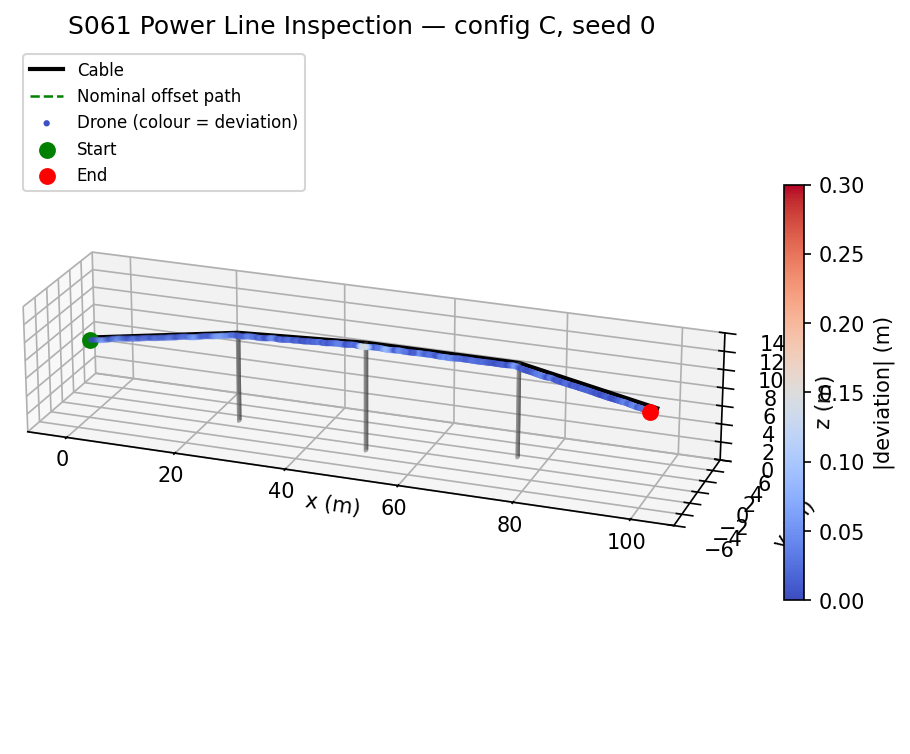
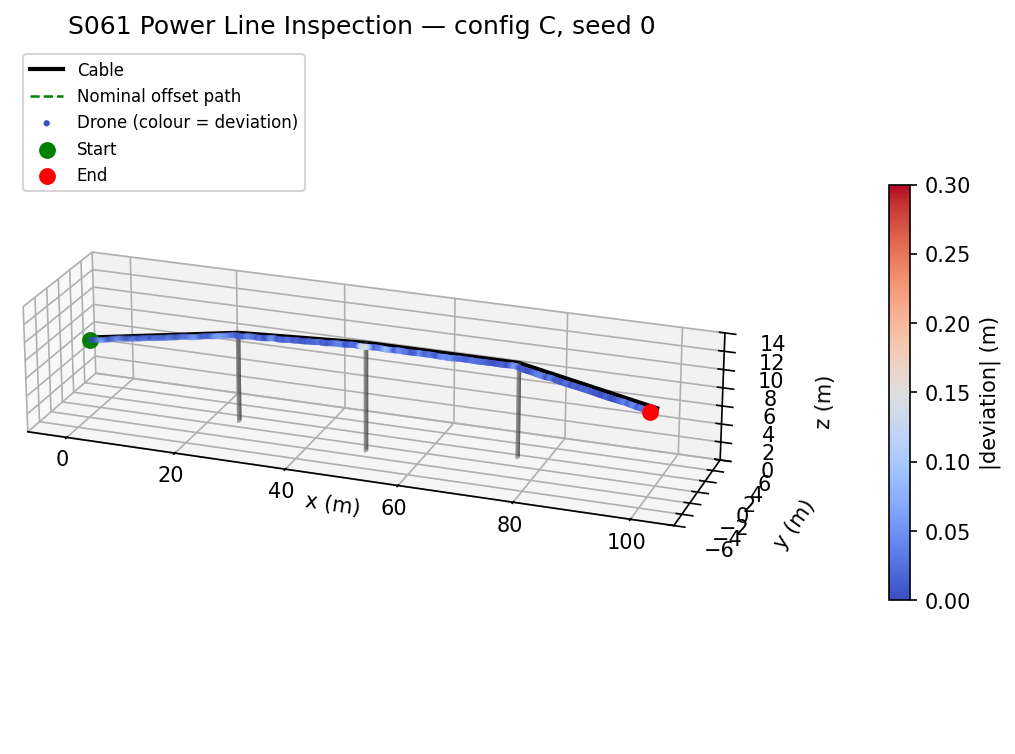
Fix S061 Power Line Inspection: address review follow-ups

Changed region(s): [[0.0, 0.2135, 0.9846, 0.8236], [0.0, 0.0, 0.7077, 0.244]]

diff --git a/src/04_industrial_agriculture/s061_power_line.py b/src/04_industrial_agriculture/s061_power_line.py
@@ -1,7 +1,7 @@
 """
 S061 Power Line Inspection
 ==========================
-A drone follows a 103 m high-voltage cable (5-vertex 3D polyline, 3 support poles)
+A drone follows a 100.55 m high-voltage cable (5-vertex 3D polyline, 3 support poles)
 at a lateral standoff of 1.5 m and 0.5 m above it, at 1.0 m/s. A Frenet-frame
 controller (along-track speed loop, cross-track PID, vertical PD) tracks the
 nominal offset path from noisy GPS (sigma = 0.1 m); a repulsive potential field
@@ -10,7 +10,7 @@ pushes the drone away from each pole.
 Four controller configurations are compared over 20 GPS-noise seeds (common
 random numbers):
   A  card law      : finite-difference error derivatives on GPS, no drag feed-forward
-  B  vel-deriv     : error derivatives from the velocity estimate, no feed-forward
+  B  vel-deriv     : error derivatives from the true (noise-free) velocity, no feed-forward
   C  vel-deriv + FF: B plus drag / slope feed-forward (proposed)
   D  C without the pole potential field (ablation)
 
@@ -316,7 +316,7 @@ def plot_trajectory_3d(log, out_dir):
                     vmin=0, vmax=DEV_TOL, s=4, label='Drone (colour = deviation)')
     ax.scatter(*P[0], color='green', s=50, label='Start')
     ax.scatter(*P[-1], color='red', s=50, label='End')
-    fig.colorbar(sc, ax=ax, shrink=0.6, label='|deviation| (m)')
+    fig.colorbar(sc, ax=ax, shrink=0.6, pad=0.12, label='|deviation| (m)')
     ax.set_xlabel('x (m)')
     ax.set_ylabel('y (m)')
     ax.set_zlabel('z (m)')
@@ -524,6 +524,11 @@ if __name__ == '__main__':
     print(f'  Per-seed RMS wins: B < A in {int(np.sum(rmsB < rmsA))}/{N_SEEDS}; '
           f'C < B in {int(np.sum(rmsC < rmsB))}/{N_SEEDS}; '
           f'C < D in {int(np.sum(rmsC < rmsD))}/{N_SEEDS}')
+    for k in ('C', 'D'):
+        lg = logs[k]
+        near = [float(np.max(np.abs(lg['eN'][np.abs(lg['s'] - sp) <= 3.0]))) for sp in S0_SEG[1:4]]
+        print(f"  Seed {ANIM_SEED} config {k}: max |e_N| within 3 m of poles 1/2/3: "
+              + ' / '.join(f'{v:.3f}' for v in near) + ' m')
     mC = metrics(logs[MAIN])
     print(f'  Seed {ANIM_SEED} config {MAIN}: time {mC["time"]:.1f} s, coverage '
           f'{mC["coverage"]:.1f} %, RMS {mC["rms"]:.3f} m, max|e_N| {mC["max_eN"]:.3f} m, '

diff --git a/outputs/04_industrial_agriculture/s061_power_line/README.md b/outputs/04_industrial_agriculture/s061_power_line/README.md
@@ -17,9 +17,9 @@
 | Config | Error derivatives | Drag feed-forward | Pole potential field |
 |---|---|---|---|
 | **A** card law | finite difference of the GPS-measured errors (card code) | no | yes |
-| **B** | from the velocity estimate | no | yes |
-| **C** proposed | from the velocity estimate | $c_{drag} v_{insp} \hat T$ | yes |
-| **D** ablation | from the velocity estimate | $c_{drag} v_{insp} \hat T$ | **no** |
+| **B** | from the true velocity (noise-free) | no | yes |
+| **C** proposed | from the true velocity (noise-free) | $c_{drag} v_{insp} \hat T$ | yes |
+| **D** ablation | from the true velocity (noise-free) | $c_{drag} v_{insp} \hat T$ | **no** |
 
 A GPS-noise sweep (σ = 0.1, 0.25, 0.5, 1.0 m; 10 seeds each) tests A, C and D for robustness.
 
@@ -39,7 +39,7 @@ $$a_T = K_p^{(T)}(v_{insp} - \dot s) - K_d^{(T)}\ddot s,\qquad a_N = -K_p^{(N)}e
 
 $$\mathbf a_{cmd} = a_T\hat T + a_N\hat N + a_B\hat z\;[+\,c_{drag}v_{insp}\hat T]\;[+\,\mathbf a_{rep}]$$
 
-Config A computes $\dot e_N, \dot e_B$ by finite differences of the GPS-measured errors, as in the card's code. B–D use $\dot e_N = \mathbf v\cdot\hat N$ and $\dot e_B = v_z - \dot s\,T_z$.
+Config A computes $\dot e_N, \dot e_B$ by finite differences of the GPS-measured errors, as in the card's code. B–D use $\dot e_N = \mathbf v\cdot\hat N$ and $\dot e_B = v_z - \dot s\,T_z$, where $\mathbf v$ is the drone's **true** velocity: the simulation assumes velocity is measured without noise (for example by an IMU / GPS-Doppler fusion). The along-track speed $\dot s$ also uses the true velocity in every configuration, as in the card. The B/C/D advantage over A is therefore an upper bound; a noisy velocity estimate would narrow it.
 
 ### Pole repulsion (card)
 
@@ -141,7 +141,7 @@ Config C, seed 0: the cable (black), the three poles (grey cylinders) and the dr
 
 ### Tracking Errors and Speed
 
-Cross-track and vertical errors (true position) for the card law A and for C, seed 0, with the ±0.3 m band in yellow and the poles as grey bands. The bottom panel shows A and B settling at 0.706 m/s while C holds 1.0 m/s. The cross-track bumps at s ≈ 25, 50 and 75 m are the potential-field push at the poles. The largest, at pole 2 (+0.14 m), is where the cable turns most sharply in the horizontal plane:
+Cross-track and vertical errors (true position) for the card law A and for C, seed 0, with the ±0.3 m band in yellow and the poles as grey bands. The bottom panel shows A and B settling at 0.706 m/s while C holds 1.0 m/s. The cross-track bumps at s ≈ 25, 50 and 75 m come mainly from the cable's corners at the poles: the reference switches to the next segment's frame there, and the drone needs time to follow. They appear with and without the potential field. Max |e_N| within 3 m of poles 1/2/3 in seed 0 is 0.061 / 0.140 / 0.032 m with the field (C) and 0.061 / 0.095 / 0.073 m without it (D). The field adds to the bump only at pole 2, where the cable turns most sharply in the horizontal plane (0.140 against 0.095 m):
 
 ![Error Time Series](./error_timeseries.png)
 
@@ -171,9 +171,9 @@ Top view of config C, seed 0. The red dot is the drone, the orange dots are the 
 
 | Card | Implementation | Reason |
 |------|----------------|--------|
-| GPS noise added to $\dot{\mathbf p}$ (and to `pos` every step in the card's code) | GPS noise only corrupts the measured position $\tilde{\mathbf p}$ that the controller uses; the true position integrates $\mathbf v$ | Adding 0.1 m to the true position at every 0.05 s step is a 2 m/s random velocity, not a sensor error. Card corrected. |
+| GPS noise added to $\dot{\mathbf p}$ (and to `pos` every step in the card's code) | GPS noise only corrupts the measured position $\tilde{\mathbf p}$ that the controller uses; the true position integrates $\mathbf v$ | Adding 0.1 m to the true position at every 0.05 s step is a 2 m/s random velocity, not a sensor error. Card math and code corrected. |
 | One controller | Four configurations A–D with 20 common-random-number seeds, plus a GPS sweep | The card's law misses the speed target (next row). The comparison isolates the effect of the derivative, the feed-forward and the potential field. |
-| $a_T = K_p(v_{insp} - \dot s) - K_d\ddot s$ (card code: $-K_d\dot s$) | Card math ($-K_d\ddot s$) in all configs; C and D add $c_{drag}v_{insp}\hat T$ | The card code's $-K_d\dot s$ would settle at 1.2/2.1 = 0.57 m/s. The math version settles at 0.706 m/s because of drag; the feed-forward removes this steady-state error. A note is added to the card. |
+| $a_T = K_p(v_{insp} - \dot s) - K_d\ddot s$ (card code: $-K_d\dot s$) | Card math ($-K_d\ddot s$) in all configs; C and D add $c_{drag}v_{insp}\hat T$ | The card code's $-K_d\dot s$ would settle at 1.2/2.1 = 0.57 m/s. The math version settles at 0.706 m/s because of drag; the feed-forward removes this steady-state error. A note is added to the card, and the card code now uses $-K_d\ddot s$ plus the feed-forward. |
 | Cable length ≈ 103 m; task time 103 s | 100.55 m; 141.6 s (A) / 100.2 s (C) | Computed from the card's vertices. Card corrected. |
 | Coverage: "within lateral distance $d_{lat} + \epsilon$ of the segment midpoint" ($\epsilon$ not given; card code uses distance to the nominal point with $\epsilon = 0.5$) | Euclidean distance from the true position to the segment midpoint ≤ 2.0 m ($\epsilon = 0.5$ m) for ≥ 0.5 s | The card code's test is nearly always true and only counts time per segment. The midpoint distance makes coverage depend on actually passing close to each segment. |
 | No speed limit | 5 m/s speed limit, enforced with an assert | X4 sanity check; it is only reached with GPS noise of σ = 1.0 m. |

diff --git a/scenarios/04_industrial_agriculture/S061_power_line.md b/scenarios/04_industrial_agriculture/S061_power_line.md
@@ -281,38 +281,43 @@ def simulate(vertices, frames, rng):
     eB_log     = [0.0]
     speed_log  = [V_INSP]
 
+    prev_sdot = V_INSP
     while True:
+        # GPS is a measurement error: the controller sees meas, the drone is at pos
+        meas = pos + rng.normal(0.0, GPS_SIGMA, 3)
         s, p_ref, seg_idx, T_hat, N_hat = project_to_cable(
-            pos, frames, vertices)
+            meas, frames, vertices)
 
         # Nominal target
         p_nom = p_ref + D_LAT * N_hat + DELTA_Z * np.array([0, 0, 1])
 
-        # Frenet errors
-        diff   = pos - p_nom
+        # Frenet errors (measured)
+        diff   = meas - p_nom
         e_N    = np.dot(diff, N_hat)
         e_B    = diff[2]
         s_dot  = np.dot(vel, T_hat)
 
-        # PID accelerations
-        a_T = KP_T * (V_INSP - s_dot) - KD_T * np.dot(vel, T_hat)
+        # PID accelerations: speed loop with K_d on s-double-dot (math above);
+        # C_DRAG * V_INSP feed-forward removes the drag-induced speed deficit
+        s_ddot = (s_dot - prev_sdot) / DT
+        a_T = KP_T * (V_INSP - s_dot) - KD_T * s_ddot + C_DRAG * V_INSP
         i_N += e_N * DT
         d_eN = (e_N - prev_eN) / DT
         a_N  = -(KP_N * e_N + KD_N * d_eN + KI_N * i_N)
         d_eB = (e_B - prev_eB) / DT
         a_B  = -(KP_B * e_B + KD_B * d_eB)
+        prev_sdot = s_dot
 
         a_PID = a_T * T_hat + a_N * N_hat + a_B * np.array([0, 0, 1])
 
         # Repulsive avoidance
-        a_rep = repulsive_accel(pos, POLE_POSITIONS, K_REP, R_AVOID)
+        a_rep = repulsive_accel(meas, POLE_POSITIONS, K_REP, R_AVOID)
 
         a_cmd = a_PID + a_rep
 
-        # Double-integrator with drag
+        # Double-integrator with drag (no noise on the true state)
         vel = vel + (a_cmd - C_DRAG * vel) * DT
-        noise = rng.normal(0.0, GPS_SIGMA, 3)
-        pos = pos + vel * DT + noise
+        pos = pos + vel * DT
 
         # Dwell tracking
         seg_j = int(np.clip(s / seg_len, 0, N_SEG - 1))
